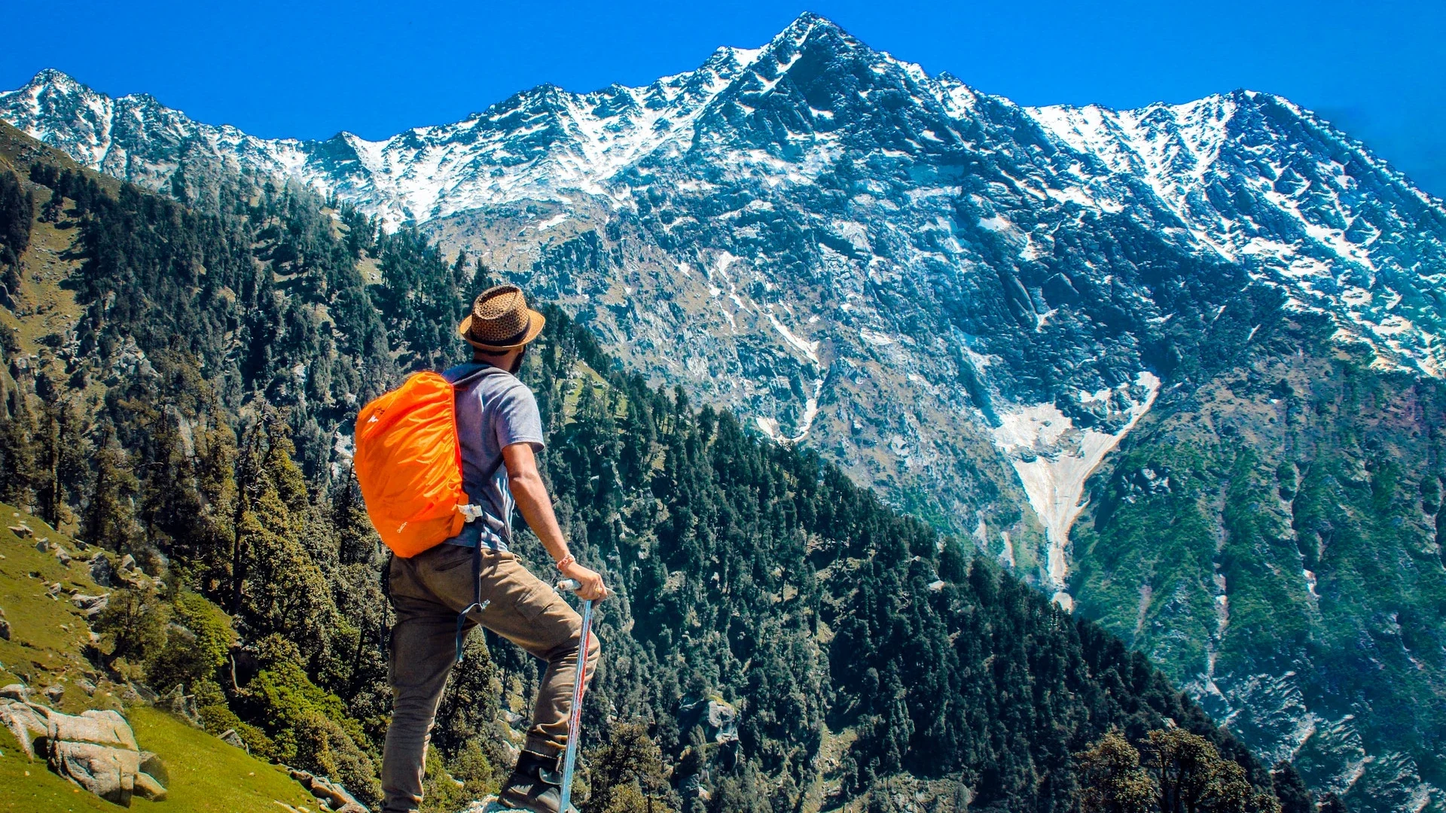
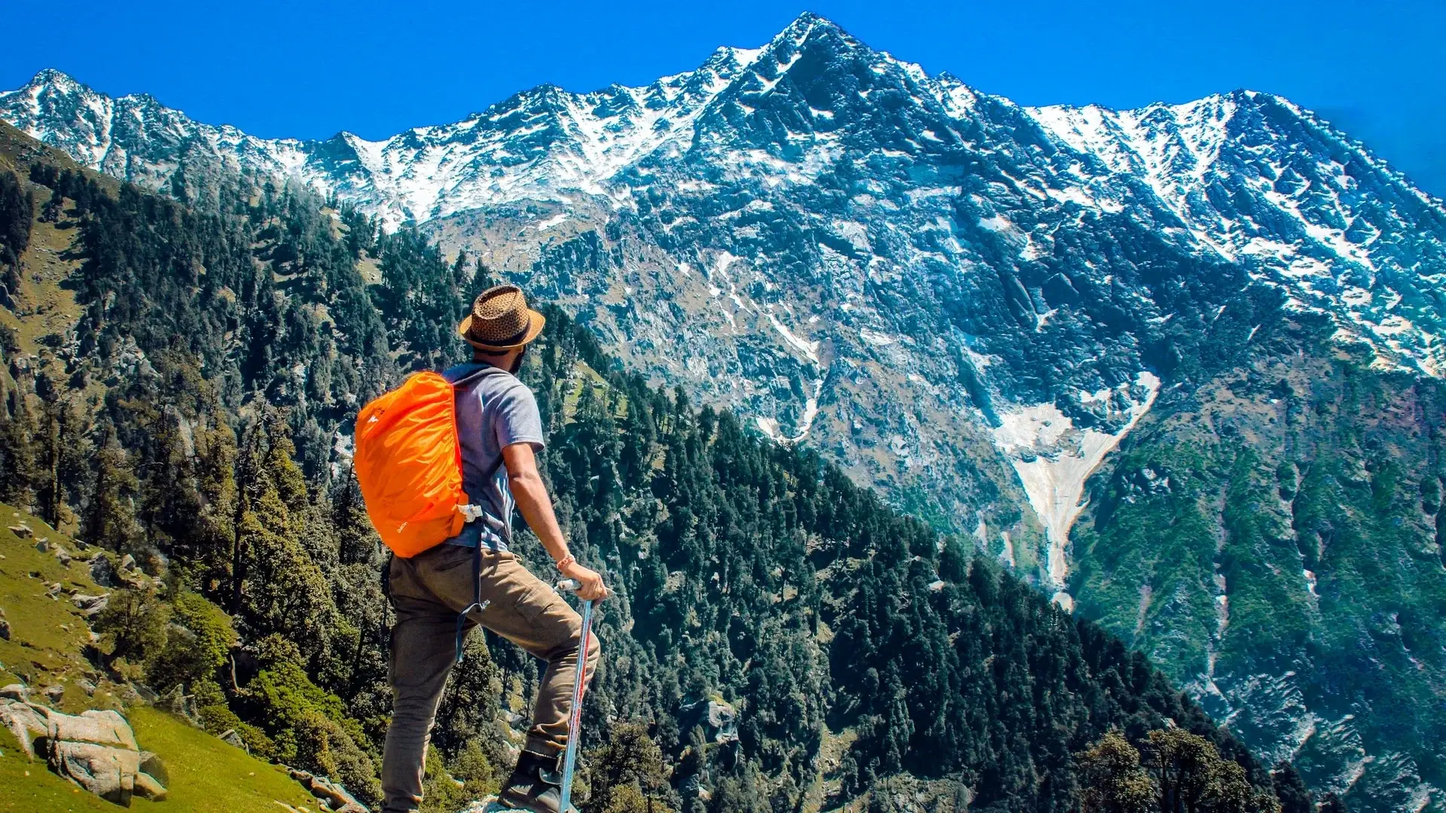
optimize background images

diff --git a/client/src/App.css b/client/src/App.css
@@ -808,7 +808,7 @@ button {
 /* Company */
 .company {
   position: relative;
-  background: url('./img/company.jpg') no-repeat center center/cover;
+  background: url('./img/company.webp') no-repeat center center/cover;
   min-height: 100vh;
 }
 
